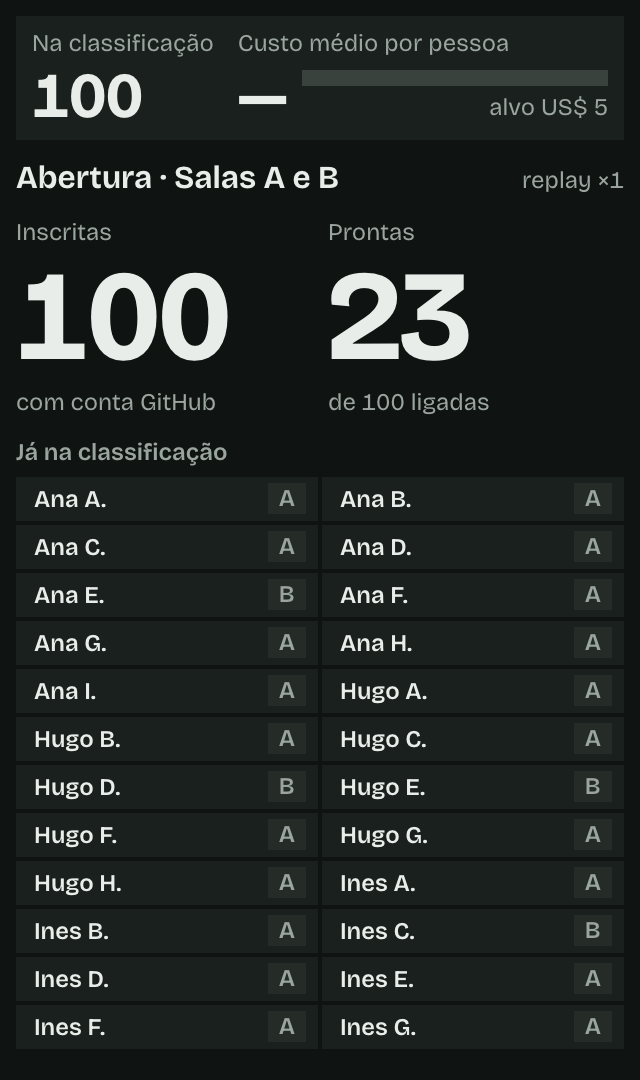
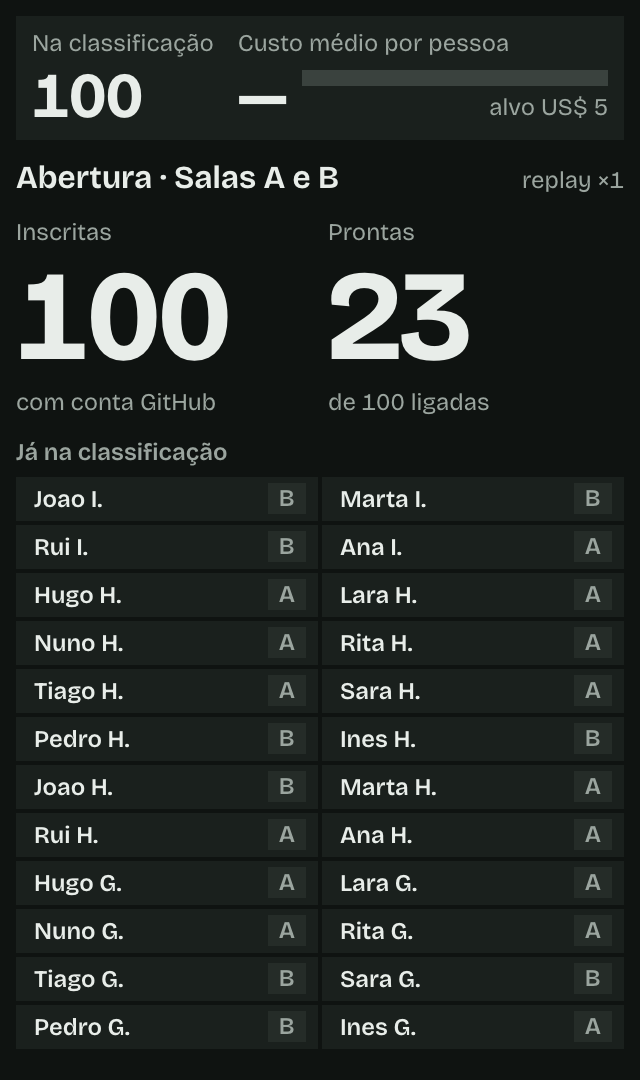
Panel: recent registrations, ready among the registered, feed per room, P2 report after approval; screenshots

diff --git a/panel/public/panel.js b/panel/public/panel.js
@@ -24,7 +24,7 @@ const ROOMS = ['A', 'B'];
 const BUDGET = 5;
 // The stages of each project on the leaderboard, in order (what board().top[].p1 and .p2 hold).
 export const P1_STAGES = ['plan', 'swarm', 'gate', 'approved'];
-export const P2_STAGES = ['intake', 'plan', 'swarm', 'gate', 'report', 'approved'];
+export const P2_STAGES = ['intake', 'plan', 'swarm', 'gate', 'approved', 'report'];
 const FUNNEL = ['intake', 'plan', 'swarm', 'gate', 'report'];
 const WIDE = 1100;
 
@@ -350,8 +350,9 @@ function feedBlock(parent, ctx, n) {
   f.append(feed);
   let key = '';
   return (state) => {
-    // ?room filters the feed too (the aggregate keeps the last few of both rooms).
-    const items = (Array.isArray(state.feed) ? state.feed : [])
+    // ?room shows that room's own feed (the aggregate keeps the last few of each room).
+    const src = ctx.focus ? state.feed_rooms?.[ctx.focus] : state.feed;
+    const items = (Array.isArray(src) ? src : [])
       .filter((it) => !ctx.focus || it.room === ctx.focus)
       .slice(-n)
       .reverse();
@@ -413,14 +414,12 @@ view.opening = (root, ctx) => {
   let key = '';
   return (state) => {
     const room = ctx.focus || 'all';
-    const x = state.rooms?.[room] || {};
-    setText(regNum, num(state.board?.[room]?.people ?? 0));
-    setText(readyNum, num(x.ready ?? 0));
-    setText(readyOf, t('readyOf', { n: num(x.people ?? 0) }));
-    const names = [...ctx.seen]
-      .filter(([, v]) => !ctx.focus || v.room === ctx.focus)
-      .sort((a, b) => b[1].seq - a[1].seq)
-      .slice(0, 60);
+    const r = state.registrations?.[room] || { people: 0, ready: 0, recent: [] };
+    setText(regNum, num(r.people ?? 0));
+    setText(readyNum, num(r.ready ?? 0));
+    setText(readyOf, t('readyOf', { n: num(r.people ?? 0) }));
+    // the most recent registrations, newest first (a hidden name comes as null and shows as "—")
+    const names = (r.recent || []).map((x) => [x.name, { room: x.room }]);
     const k = JSON.stringify([names, ctx.hiding, [...ctx.hidden]]);
     if (k !== key) {
       key = k;
